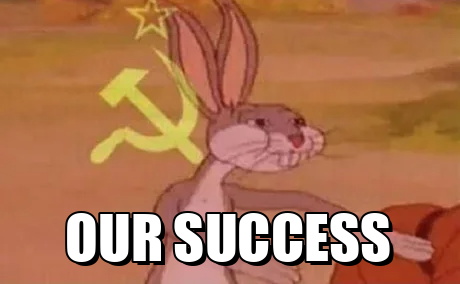
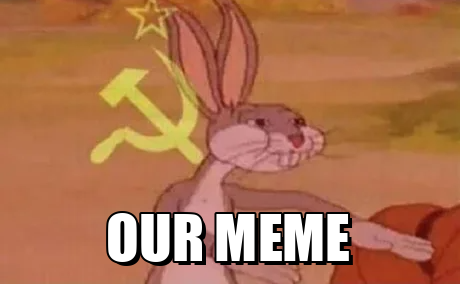
added meme command

Changed region(s): [[0.1217, 0.7324, 0.8826, 0.9577]]

diff --git a/main.py b/main.py
@@ -9,6 +9,8 @@ import time
 import asyncio
 import pykakasi
 from PIL import Image,ImageFont,ImageDraw
+from io import BytesIO
+from wand.image import Image as ImageWand
 
 kks = pykakasi.kakasi()
 
@@ -18,7 +20,7 @@ client.sniped_messages = {}
 def mess_up(message):
   return ''.join(choice((str.upper, str.lower))(c) for c in message)
 
-async def reply(message):
+async def reply(message): 
   if message.author == client.user:
       return
 
@@ -83,6 +85,35 @@ def add_subtitle(
     )
     return bg
 
+async def meme(message):
+  if len(message.mentions) == 0:
+    user = message.author
+  else:
+    user = message.mentions[0] 
+
+  cap = Image.open("meme/cap.png")
+  cap = cap.resize((280, 280))
+
+  ## Retrieving user's profile picture
+  asset = user.avatar_url
+  data = BytesIO(await asset.read())
+  pfp = Image.open(data)
+  pfp = pfp.resize((512, 512))
+  pfp.save("meme/output.png")
+
+  ## Bulging the image
+  with ImageWand(filename='meme/output.png') as img:
+    img.virtual_pixel = 'black'
+    img.implode(-1.0) ## positive value for pinch/ negative for bulge
+    img.save(filename='meme/output.png')
+
+  ## impose cap image
+  pfp = Image.open('meme/output.png')
+  pfp.paste(cap, (110, 0), cap.convert('RGBA'))
+  pfp.save("meme/output.png")
+
+  
+
 @client.event
 async def on_ready():
     print("We have logged as {0.user}".format(client))
@@ -109,9 +140,9 @@ async def on_message(message):
         return
 
     
-    if message.content.startswith('$test'):
-      if "wtv" in str(message.author.roles):
-        await message.channel.send(message.author.roles)
+    # if message.content.startswith('$test'):
+    #   if "wtv" in str(message.author.roles):
+    #     await message.channel.send(message.author.roles)
       # emojilist = ['<a:towa:806768843585355787>','<a:towaaa:806784212811120650>']
       # await message.add_reaction(choice(emojilist))
       # for emoji in message.guild.emojis:
@@ -472,13 +503,19 @@ async def on_message(message):
       with open('audio/Rushia_Okiro_Hentai.mp3', 'rb') as fp:
         await message.channel.send(file=discord.File(fp, 'Rushia_Okiro.mp3'))
 
-    if msgL.startswith('our '):
+    if msgL.startswith('our ') or msgL.startswith('*our '):
       texts = msgL.split(" ")
       if len(texts) == 2:
         bg = Image.open("meme/our_pic.png")
-        bg = add_subtitle(bg, msgL.upper())
+        bg = add_subtitle(bg, msgL.upper().replace("*", ""))
         bg.save("meme/out.png")
         await message.channel.send(file=discord.File('meme/out.png'))
+    
+    if message.content.startswith('$meme'):
+      async with message.channel.typing():
+        await meme(message)
+        await message.channel.send(file=discord.File('meme/output.png'))
+
 
 @client.event
 async def on_message_delete(message):
@@ -487,7 +524,6 @@ async def on_message_delete(message):
     channel = client.get_channel(797672953239830529)
     await channel.send('Someone deleted their message! <@!461782041856311306>')
           
-
 
 keep_alive()
 client.run(os.getenv('TOKEN'))
